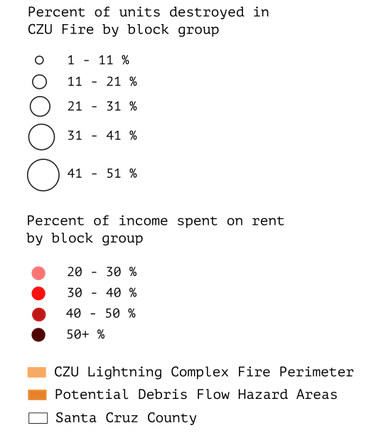
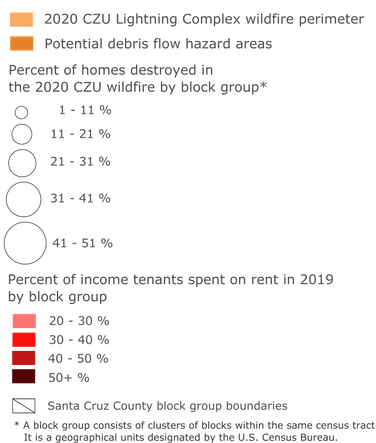
Add files via upload

diff --git a/index.html b/index.html
@@ -6,28 +6,31 @@
 <meta name="viewport" content="initial-scale=1,maximum-scale=1,user-scalable=no">
 <link href="https://api.mapbox.com/mapbox-gl-js/v2.3.0/mapbox-gl.css" rel="stylesheet">
 <script src="https://api.mapbox.com/mapbox-gl-js/v2.3.0/mapbox-gl.js"></script>
-<link href="https://fonts.googleapis.com/css?family=Lora|Noto+Sans|New+Tegomin|Tangerine|Inconsolata|Roboto|Teko|Comfortaa|Oxygen|Domine|Cinzel|Knewave|Creepster|Share|Rye|Langar|Chonburi|Corben|Gugi|Mirza|Pompiere|Baumans|Codystar|Kufam|Lemon|" rel="stylesheet">
+<link rel="preconnect" href="https://fonts.gstatic.com">
+<link href="https://fonts.googleapis.com/css2?family=Noto+Sans+SC:wght@300&family=Ropa+Sans&display=swap" rel="stylesheet">
 <link rel="stylesheet" href="//code.jquery.com/ui/1.12.1/themes/base/jquery-ui.css">
 <link rel="stylesheet" href="/resources/demos/style.css">
 <script src="https://code.jquery.com/jquery-1.12.4.js"></script>
 <script src="https://code.jquery.com/ui/1.12.1/jquery-ui.js"></script>
 <script>
   $( function() {
-    $( "#accordion" ).accordion();({collapsible: true});
+    $( "#accordion" ).accordion({
+      collapsible: true
+    });
   } );
 </script>
 
 <style>
 body { margin: 0; padding: 0; background-color:rgba(255, 255, 255, 0.8);}
-#map { position: absolute; top: 60; bottom: 0; width: 100%; height: 90%; }
-#title {color: #5D5D5D; font-size: 30px; font-family: 'Roboto', monospace; height:100%; width:100%;	display: flex; padding: 20px; margin: 20; margin: auto;}
+#map { position: absolute; top: 50; bottom: 0; width: 100%; height: 84%; }
+#title {color: #5D5D5D; font-size: 35px; font-family: 'Ropa Sans', sans-serif; height:100%; width:100%;	margin-left: 25px; margin-bottom: 0px; padding: 0px;}
+#heading {color: #5D5D5D; font-size: 15px; font-family: 'Noto Sans SC', sans-serif; height:100%; width:100%; margin-left: 25px; padding: 0px;}
 #accordion {
-  font-size: .7em;
-  font-family: 'PT Mono', monospace;
-  font-weight: normal;
-  color: #696969;
+  font-size: .8em;
+  font-family: 'Noto Sans SC', sans-serif;
+  color: #5D5D5D;
   position: fixed;
-  top: 15%;
+  top: 20%;
   left: 10px;
   width: 30%;
   padding: 10px 10px;
@@ -37,6 +40,15 @@ body { margin: 0; padding: 0; background-color:rgba(255, 255, 255, 0.8);}
   z-index: 800;
 }
 img {width='300px'}
+.mapboxgl-popup-content {
+  font: 400 15px/22px 'Ropa Sans', sans-serif;
+  padding: 3;
+  width: 400px;
+}
+
+.mapboxgl-popup-content h3 {
+  color: #50656d; 
+}
 
 </style>
 </head>
@@ -44,39 +56,44 @@ img {width='300px'}
 
 <body>
 <div id="map"></div>
-<h1 id="title">Homes Destroyed In The CZU Lightning Complex Fire</h1>
-
+<h1 id="title">Homes In Santa Cruz County Destroyed By The 2020 Wildfire</h1>
+<h2 id="heading">The CZU Lightning Complex wildfire burned from August 16, 2020 to September 22, 2020, destroying 1,477 homes in Santa Cruz County <br> and displacing many homeowners and renters. This map explores data about the residents impacted by fire.</h2>
 <div id="accordion">
-  <h3>legend</h3>
+  <h3>LEGEND</h3>
   <div>
    <img src='image/PercentDestroyedUnits.png'>
   </div>
-  <h3>about the CZU fire</h3>
+  <h3>ABOUT THE 2020 CZU LIGHTNING COMPLEX FIRE</h3>
   <div>
-    <p>
-    This map visualizes data about home structures in Santa Cruz County that were destroyed during the CZU Lightning Complex Fire from August 16, 2020 to September 22, 2020. <br>CZU Lightning Complex Fire was a major wildfire in 2020 located in California across Santa Cruz and San Mateo Counties. In total, 86,509 acres of land were burned. While tens of thousands of people evacuated from their homes, in total there were 1,331 structures in Santa Cruz County destroyed in the fire, while 2,598 structures were located within the perimeter and sustained damages of varying extents. Meanwhile, 7,735 structures are located within a mile of the perimeter of the fire, some in designated Debris Overflow Hazard Areas. 
+  <p>
+      CZU Lightning Complex Fire was a major California wildfire in 2020 located across Santa Cruz and San Mateo Counties. In total, 86,509 acres of land were burned. Tens of thousands of residents evacuated from their homes, and in total, the fire destroyed 1,331 homes in Santa Cruz County. 
   </p>
   <p>
-     Many residents have yet to return home or rebuild as the city assesses damages and safety of roads and infrastructure and as insurance companies manage claims. This is all occurring in the midst of a housing crisis, where the average rent for a one-bedroom in Santa Cruz is nearly $2,500.00/month- and in the midst of a global pandemic, where unhoused residents are regularly evicted from encampments. 
-    </p>
+      Meanwhile, 7,735 structures (homes, county-owned buildings, and private businesses) are located within a mile of the perimeter of the fire, some in designated Debris Overflow Hazard Areas.
+  </p>
+  <p>
+      Many residents have yet to return home or rebuild as the city assesses damages and safety of roads and infrastructure and as insurance companies manage claims. This is all occurring in the midst of a housing crisis, where the average rent for a one-bedroom in Santa Cruz is nearly $2,500.00/month- and in the midst of a global pandemic, where unhoused residents are regularly evicted from encampments. 
+  </p>
   </div>
-  <h3>background + sources</h3>
+  <h3>BACKGROUND + SOURCES</h3>
   <div>
     <p>
-    As a resident of Santa Cruz myself, I am curious about data that various governmental and environmental agencies collected and made publicly available about the impacts of the CZU Fire. I want to explore these impacts in comparison to existing demographic conditions of the area. 
-  </p> 
-  <p>
-    This map draws in data about the number of existing units in block groups before the fire, percentage of units destroyed by the fire, and the median amount of income spent on rent in that area in 2019. This map visualizes the percentage of units that were destroyed in the CZU fire.
-  </p>
-  <p>
-     The label “destroyed” is defined by CAL Fire and the County of Santa Cruz as structures that were more than 50% burned, leaving them uninhabitable. Data sources include: 
-CalFire https://frap.fire.ca.gov/mapping/gis-data/
+      This map explores demographic data about Santa Cruz County residents whose homes were impacted and destroyed by the 2020 wildfire. Specifically, data about average median income, percent of owner vs. renter occupied homes, and percent of income that tenants spent on rent were relevant in understanding the affordability of different areas in the county prior to the 2020 wildfire. 
     </p>
+    <p>
+      The label “destroyed” is defined by CAL Fire and the County of Santa Cruz as structures that were more than 50% burned, leaving them uninhabitable. 
+    </p>
+    <p>
+      All data is calculated within block groups- clusters of blocks within the same census tract. These are geographical units designated by the U.S. Census Bureau.
+    </p> 
+    <p>
+      Data sources include: 
     <ul>
-      <li><a href="url">GIS Santa Cruz County https://gis.santacruzcounty.us/</a></li>
-      <li><a href="url">U.S. Census Bureau https://data.census.gov/</a></li>
-      <li><a href="url">CalFire https://frap.fire.ca.gov/mapping/gis-data/</a></li>
+      <li><a href="https://frap.fire.ca.gov/mapping/gis-data/">CalFire</a></li>
+      <li><a href="https://gis.santacruzcounty.us/">GIS Santa Cruz County</a></li>
+      <li><a href="https://data.census.gov/">U.S. Census Bureau</a></li>
     </ul>
+  </p>
   </div>
 </div>
 
@@ -85,12 +102,13 @@ CalFire https://frap.fire.ca.gov/mapping/gis-data/
     var map = new mapboxgl.Map({
         container: 'map', // container id
         style: 'mapbox://styles/cedudley/ckp4fs30n18jl17nxf3dmovea', // style URL
-        center: [-122.19511047038061, 37.1196740759339], // starting position [lng, lat]
-        zoom: 10.5 // starting zoom
+        center: [-122.15250178246671, 37.0541342875011], // starting position [lng, lat]
+        minZoom: 9.5,
+        maxZoom: 12 // starting zoom
     });
  map.on('click', function (e) {
     var features = map.queryRenderedFeatures(e.point, {
-    layers: ['percentdestroyedunits']
+    layers: ['mapbox-final2-94vf4j']
     });
     if (!features.length) {
     return;
@@ -101,21 +119,38 @@ CalFire https://frap.fire.ca.gov/mapping/gis-data/
   var popup = new mapboxgl.Popup({ offset: [0, -15] })
   .setLngLat(feature.geometry.coordinates)
   .setHTML(
-  '<h3>' + 'Number of occupied units before fire: ' +
-  feature.properties.title +
+  '<h3>' + 'Area(s) in this block group impacted by the wildfire: <br> ' + feature.properties.towns +
   '</h3>' +
-  '<p>' + 'Percent of units destroyed in fire: ' +
-  feature.properties.description +
+  '<p>' + 'Before the wildfire there were ' +
+  feature.properties.title + ' occupied homes' +
   '</p>' +
-  '<p>' + 'Average percent of income spent on rent in 2019: ' +
-  feature.properties.mgr_phhi +
+  '<p>' + feature.properties.descriptio + '% of homes were destroyed in the wildfire ' +
+  '</p>' +
+  '<p>' + 'In 2019, on average renters spent ' + feature.properties.mgr_phhi + '% of their income on rent' +
+  '</p>' +
+  '<p>' + 'In 2019, the median annual income for residents in this block group was $' + feature.properties.med_hhi_B1 + 
+  '</p>' +
+  '<p>' + 'In 2019, ' + feature.properties.pt_rnt_oc2 + '% of homes were occupied by renters in this block group' +
+  '</p>' +
+  '<p>' + 'In 2019, ' + feature.properties.pt_own_oc2 + '% of homes were occupied by owners in this block group' +
   '</p>'
+
   ).addTo(map);
   });
  
     $( "#opener" ).on( "click", function() {
       $( "#dialog" ).dialog( "open" );
     });
+
+
+map.on('mouseenter', 'mapbox-final2-94vf4j', function () {
+map.getCanvas().style.cursor = 'pointer';
+});
+ 
+// Change it back to a pointer when it leaves.
+map.on('mouseleave', 'mapbox-final2-94vf4j', function () {
+map.getCanvas().style.cursor = '';
+}); 
 </script>
 </body>
 </html>
